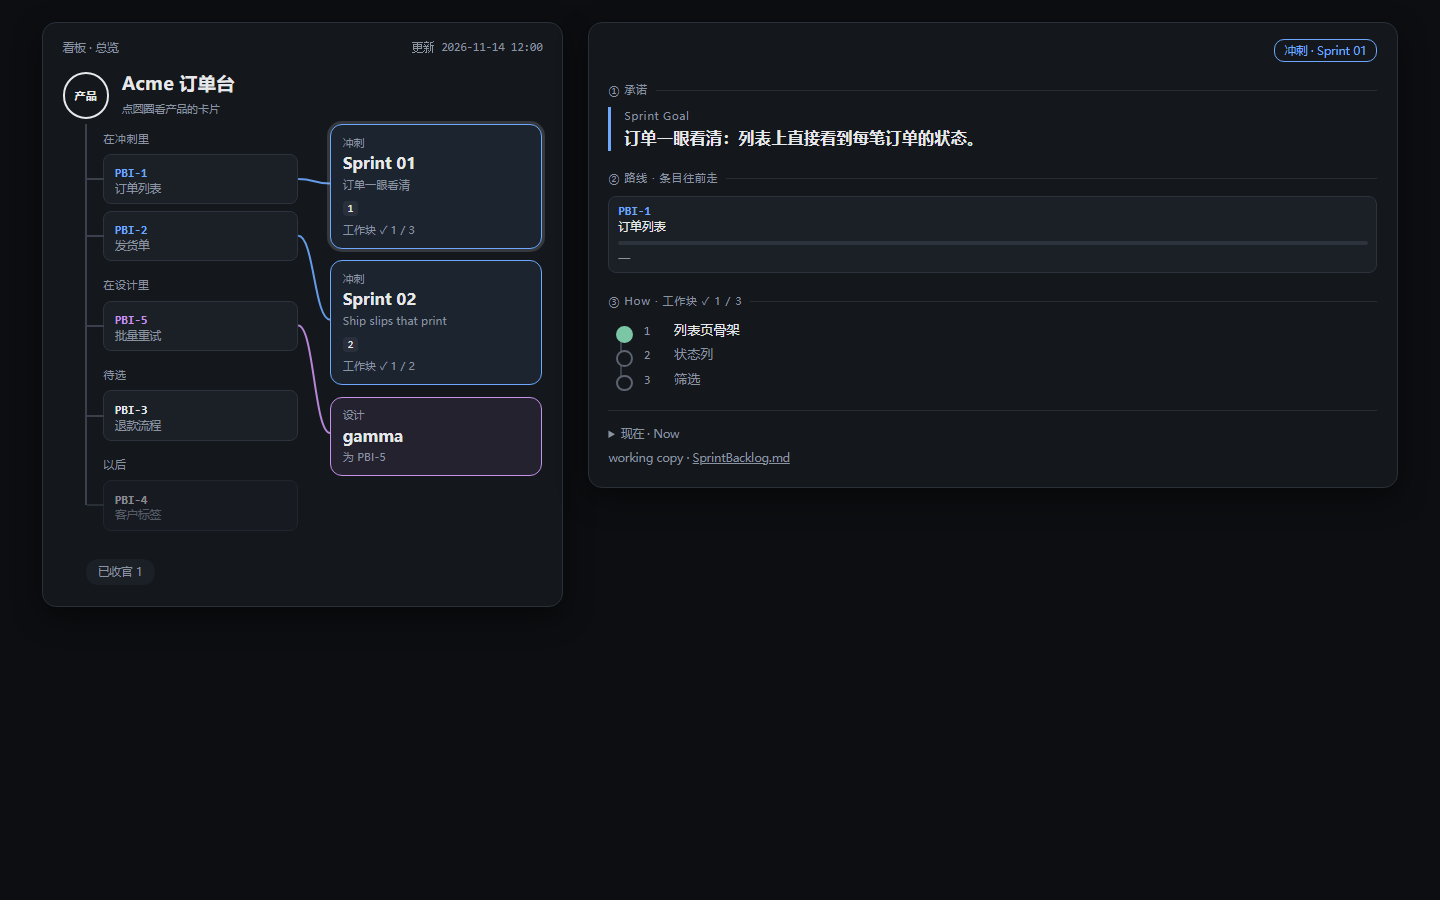
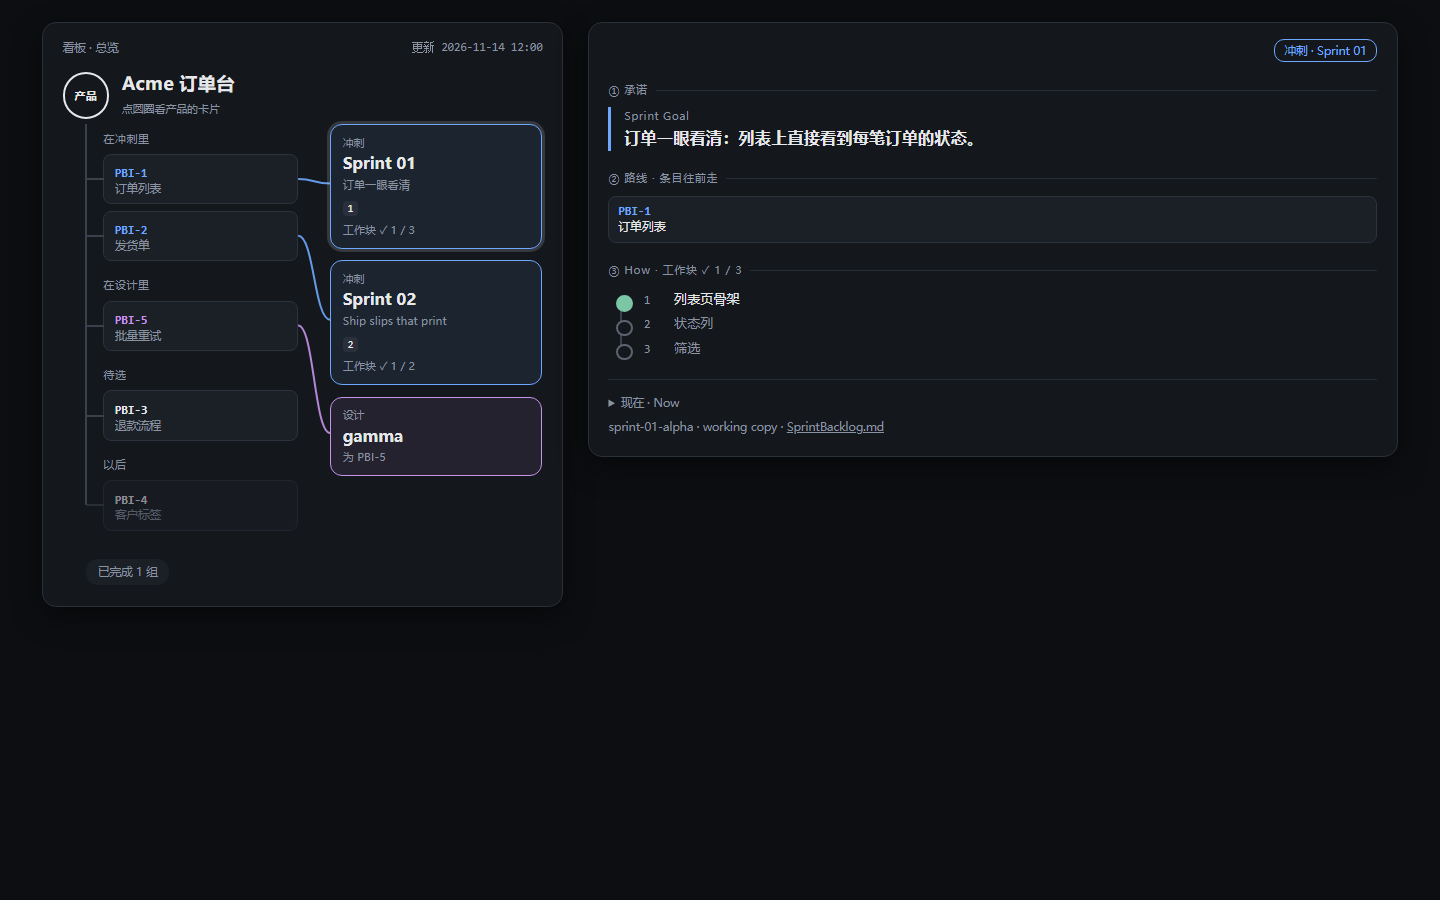
fix(Sprint 20): 块 9 按 Master 审阅改四处——「已完成 N 组」、条目照冲刺和设计自己的顺序排、认不出工作块时不画进度条、设计节点取设计目标的短名
- 完成数的标签：产品日志 3.2 的行不全是冲刺，页面写「已完成 N 组」，N 是表的行数
- 在冲刺里、在设计里的条目照所在冲刺（日志 2.1）、设计的顺序排，总览和路线一致
- 一个条目没有任何工作块写着它的编号时，路线只列条目，不画进度条
- 设计节点取设计目标冒号前的短名；冲刺、设计的文件夹名挪到卡片的来源那一行
- 样本数据、截图重做；Codex 包同步；块 9 标 ✓（Master 审过）

Changed region(s): [[0.4062, 0.28, 0.625, 0.5289], [0.0625, 0.6222, 0.0938, 0.6533]]

diff --git a/codex/plugins/ideo-scrum/skills/scrum-kernel/conventions/scrum-board-template.html b/codex/plugins/ideo-scrum/skills/scrum-kernel/conventions/scrum-board-template.html
@@ -189,7 +189,8 @@
   var STR = {
     zh: {
       board: '看板', overview: '总览', back: '← 总览', updated: '更新', circle: '产品', hint: '点圆圈看产品的卡片',
-      sprint: '冲刺', design: '设计', forItem: '为', blocks: '工作块', closed: '已收官', here: '在这',
+      sprint: '冲刺', design: '设计', forItem: '为', blocks: '工作块', here: '在这',
+      closed: function (n) { return '已完成 ' + n + ' 组'; },
       grp: { sprint: '在冲刺里', design: '在设计里', next: '待选', later: '以后' },
       l1: '① 承诺', designGoal: '设计目标',
       productL2: '② 路线 · 架构（主干）', productL3: function (n) { return '③ 条目 · 没做完的 ' + n + ' 条'; },
@@ -201,7 +202,8 @@
     },
     en: {
       board: 'Board', overview: 'Overview', back: '← Overview', updated: 'Updated', circle: 'Product', hint: 'Open the circle for the product card',
-      sprint: 'Sprint', design: 'Design', forItem: 'For', blocks: 'Work items', closed: 'Closed', here: 'here',
+      sprint: 'Sprint', design: 'Design', forItem: 'For', blocks: 'Work items', here: 'here',
+      closed: function (n) { return 'Done · ' + n + ' groups'; },
       grp: { sprint: 'In a Sprint', design: 'In a design', next: 'Up next', later: 'Later' },
       l1: '① Commitments', designGoal: 'Design goal',
       productL2: '② Route · architecture (backbone)', productL3: function (n) { return '③ Items · ' + n + ' not done'; },
@@ -247,7 +249,7 @@
   function numOf(id) { var m = /(\d+)\s*$/.exec(String(id)); return m ? m[1] : String(id); }
   function shortOf(t) { t = String(t || ''); var s = t.split(/——| — |：|: /)[0]; return s || t; }
   function sprintName(s) { var m = /^sprint-(\d+)/i.exec(String(s.id)); return m ? 'Sprint ' + m[1] : String(s.id); }
-  function designName(d) { return String(d.id).replace(/^design-/, ''); }
+  function designName(d) { return goalShort(d) || String(d.id).replace(/^design-/, ''); }
   function goalShort(s) {
     var g = String(s.goal || ''), i = g.search(/：|: /);
     return i > 0 && i <= 24 ? g.slice(0, i) : '';
@@ -280,6 +282,22 @@
   sprints.forEach(function (s) { arr(s.items).forEach(function (id) { links.push({ item: id, node: s.id, cls: 's' }); }); });
   designs.forEach(function (d) { arr(d['for']).forEach(function (id) { links.push({ item: id, node: d.id, cls: 'd' }); }); });
 
+  /* Items that sit in a Sprint or a design are listed in that Sprint's or design's own order; the rest keep the product log's. */
+  var rank = {};
+  sprints.forEach(function (s, si) { arr(s.items).forEach(function (id, i) { if (!(id in rank)) { rank[id] = si * 1000 + i; } }); });
+  designs.forEach(function (d, di) { arr(d['for']).forEach(function (id, i) { if (!(id in rank)) { rank[id] = 100000 + di * 1000 + i; } }); });
+  items.forEach(function (it, i) { it._o = i; });
+  function inGroup(g) {
+    var list = items.filter(function (it) { return it._g === g; });
+    if (g === 'sprint' || g === 'design') {
+      list.sort(function (a, b) {
+        var ra = a.id in rank ? rank[a.id] : 1e9, rb = b.id in rank ? rank[b.id] : 1e9;
+        return (ra - rb) || (a._o - b._o);
+      });
+    }
+    return list;
+  }
+
   /* ---- overview ---- */
   var itemEl = {}, nodeEl = {};
   var circle = h('a', 'prod-circle', S.circle);
@@ -295,7 +313,7 @@
     add(ov, add(h('div', 'ov-head'), circle, add(h('div', 'prod-name'), h('b', '', P.name || ''), h('span', '', S.hint))));
     var any = false;
     GROUPS.forEach(function (g) {
-      var list = items.filter(function (it) { return it._g === g; });
+      var list = inGroup(g);
       if (!list.length) { return; }
       any = true;
       itemsCol.appendChild(h('div', 'grp-label', S.grp[g]));
@@ -335,7 +353,7 @@
 
     add(flow, wires, trunk, itemsCol, nodesCol);
     ov.appendChild(flow);
-    if (P.closed) { ov.appendChild(h('div', 'closed', S.closed + ' ' + P.closed)); }
+    if (P.closed) { ov.appendChild(h('div', 'closed', S.closed(P.closed))); }
   }
 
   function svgPath(d, cls, itemId) {
@@ -443,9 +461,9 @@
   function ideoLines(list) {
     return arr(list).map(function (x) { return h('p', '', S.ideo + ' · ' + (x.id || '') + (x.now ? ': ' + x.now : '')); });
   }
-  function sourceLine(src, path, file) {
+  function sourceLine(src, path, file, folder) {
     var p = h('p');
-    p.appendChild(document.createTextNode(src || ''));
+    p.appendChild(document.createTextNode((folder ? folder + ' · ' : '') + (src || '')));
     if (path && /^working copy/i.test(src || '')) {
       p.appendChild(document.createTextNode(' · '));
       var a = h('a', '', file);
@@ -477,7 +495,7 @@
     if (arr(P.map).length) { l2.appendChild(ul); c.appendChild(l2); }
     var l3 = layer(S.productL3(notDone));
     GROUPS.forEach(function (g) {
-      var list = items.filter(function (it) { return it._g === g; });
+      var list = inGroup(g);
       if (!list.length) { return; }
       l3.appendChild(h('div', 'grp', S.grp[g]));
       list.forEach(function (it) { l3.appendChild(itemRow(it)); });
@@ -497,7 +515,9 @@
       fill.style.width = (p.t ? Math.round(100 * p.d / p.t) : 0) + '%';
       bar2.appendChild(fill);
       if (i) { row.appendChild(h('span', 'parr', '→')); }
-      add(pn, h('b', '', it.id), h('span', 't', shortOf(it.title)), bar2, h('small', '', p.t ? S.perItem(p.d, p.t) : '—'));
+      /* No work item names this item: the route lists it without a bar. */
+      if (p.t) { add(pn, h('b', '', it.id), h('span', 't', shortOf(it.title)), bar2, h('small', '', S.perItem(p.d, p.t))); }
+      else { add(pn, h('b', '', it.id), h('span', 't', shortOf(it.title))); }
       pn.title = it.title || '';
       row.appendChild(pn);
     });
@@ -509,7 +529,7 @@
       ol.appendChild(li);
     });
     if (arr(s.blocks).length) { l3.appendChild(ol); c.appendChild(l3); }
-    foot(c, [nowBlock(s.now)].concat(ideoLines(s.ideo), [sourceLine(s.source, s.id + '/SprintBacklog.md', 'SprintBacklog.md')]));
+    foot(c, [nowBlock(s.now)].concat(ideoLines(s.ideo), [sourceLine(s.source, s.id + '/SprintBacklog.md', 'SprintBacklog.md', s.id)]));
   }
 
   function designCard(d) {
@@ -522,7 +542,7 @@
     var l3 = layer(S.designL3), st = h('div', 'story');
     arr(d.story).forEach(function (x) { st.appendChild(add(h('div'), h('b', '', x.title), document.createTextNode(x.text || ''))); });
     if (arr(d.story).length) { l3.appendChild(st); c.appendChild(l3); }
-    foot(c, [nowBlock(d.now)].concat(ideoLines(d.ideo), [sourceLine(d.source, d.id + '/DesignBacklog.md', 'DesignBacklog.md')]));
+    foot(c, [nowBlock(d.now)].concat(ideoLines(d.ideo), [sourceLine(d.source, d.id + '/DesignBacklog.md', 'DesignBacklog.md', d.id)]));
   }
 
   /* ---- showing a card ---- */

diff --git a/plugins/ideo-scrum/skills/scrum-kernel/conventions/scrum-board-template.html b/plugins/ideo-scrum/skills/scrum-kernel/conventions/scrum-board-template.html
@@ -189,7 +189,8 @@
   var STR = {
     zh: {
       board: '看板', overview: '总览', back: '← 总览', updated: '更新', circle: '产品', hint: '点圆圈看产品的卡片',
-      sprint: '冲刺', design: '设计', forItem: '为', blocks: '工作块', closed: '已收官', here: '在这',
+      sprint: '冲刺', design: '设计', forItem: '为', blocks: '工作块', here: '在这',
+      closed: function (n) { return '已完成 ' + n + ' 组'; },
       grp: { sprint: '在冲刺里', design: '在设计里', next: '待选', later: '以后' },
       l1: '① 承诺', designGoal: '设计目标',
       productL2: '② 路线 · 架构（主干）', productL3: function (n) { return '③ 条目 · 没做完的 ' + n + ' 条'; },
@@ -201,7 +202,8 @@
     },
     en: {
       board: 'Board', overview: 'Overview', back: '← Overview', updated: 'Updated', circle: 'Product', hint: 'Open the circle for the product card',
-      sprint: 'Sprint', design: 'Design', forItem: 'For', blocks: 'Work items', closed: 'Closed', here: 'here',
+      sprint: 'Sprint', design: 'Design', forItem: 'For', blocks: 'Work items', here: 'here',
+      closed: function (n) { return 'Done · ' + n + ' groups'; },
       grp: { sprint: 'In a Sprint', design: 'In a design', next: 'Up next', later: 'Later' },
       l1: '① Commitments', designGoal: 'Design goal',
       productL2: '② Route · architecture (backbone)', productL3: function (n) { return '③ Items · ' + n + ' not done'; },
@@ -247,7 +249,7 @@
   function numOf(id) { var m = /(\d+)\s*$/.exec(String(id)); return m ? m[1] : String(id); }
   function shortOf(t) { t = String(t || ''); var s = t.split(/——| — |：|: /)[0]; return s || t; }
   function sprintName(s) { var m = /^sprint-(\d+)/i.exec(String(s.id)); return m ? 'Sprint ' + m[1] : String(s.id); }
-  function designName(d) { return String(d.id).replace(/^design-/, ''); }
+  function designName(d) { return goalShort(d) || String(d.id).replace(/^design-/, ''); }
   function goalShort(s) {
     var g = String(s.goal || ''), i = g.search(/：|: /);
     return i > 0 && i <= 24 ? g.slice(0, i) : '';
@@ -280,6 +282,22 @@
   sprints.forEach(function (s) { arr(s.items).forEach(function (id) { links.push({ item: id, node: s.id, cls: 's' }); }); });
   designs.forEach(function (d) { arr(d['for']).forEach(function (id) { links.push({ item: id, node: d.id, cls: 'd' }); }); });
 
+  /* Items that sit in a Sprint or a design are listed in that Sprint's or design's own order; the rest keep the product log's. */
+  var rank = {};
+  sprints.forEach(function (s, si) { arr(s.items).forEach(function (id, i) { if (!(id in rank)) { rank[id] = si * 1000 + i; } }); });
+  designs.forEach(function (d, di) { arr(d['for']).forEach(function (id, i) { if (!(id in rank)) { rank[id] = 100000 + di * 1000 + i; } }); });
+  items.forEach(function (it, i) { it._o = i; });
+  function inGroup(g) {
+    var list = items.filter(function (it) { return it._g === g; });
+    if (g === 'sprint' || g === 'design') {
+      list.sort(function (a, b) {
+        var ra = a.id in rank ? rank[a.id] : 1e9, rb = b.id in rank ? rank[b.id] : 1e9;
+        return (ra - rb) || (a._o - b._o);
+      });
+    }
+    return list;
+  }
+
   /* ---- overview ---- */
   var itemEl = {}, nodeEl = {};
   var circle = h('a', 'prod-circle', S.circle);
@@ -295,7 +313,7 @@
     add(ov, add(h('div', 'ov-head'), circle, add(h('div', 'prod-name'), h('b', '', P.name || ''), h('span', '', S.hint))));
     var any = false;
     GROUPS.forEach(function (g) {
-      var list = items.filter(function (it) { return it._g === g; });
+      var list = inGroup(g);
       if (!list.length) { return; }
       any = true;
       itemsCol.appendChild(h('div', 'grp-label', S.grp[g]));
@@ -335,7 +353,7 @@
 
     add(flow, wires, trunk, itemsCol, nodesCol);
     ov.appendChild(flow);
-    if (P.closed) { ov.appendChild(h('div', 'closed', S.closed + ' ' + P.closed)); }
+    if (P.closed) { ov.appendChild(h('div', 'closed', S.closed(P.closed))); }
   }
 
   function svgPath(d, cls, itemId) {
@@ -443,9 +461,9 @@
   function ideoLines(list) {
     return arr(list).map(function (x) { return h('p', '', S.ideo + ' · ' + (x.id || '') + (x.now ? ': ' + x.now : '')); });
   }
-  function sourceLine(src, path, file) {
+  function sourceLine(src, path, file, folder) {
     var p = h('p');
-    p.appendChild(document.createTextNode(src || ''));
+    p.appendChild(document.createTextNode((folder ? folder + ' · ' : '') + (src || '')));
     if (path && /^working copy/i.test(src || '')) {
       p.appendChild(document.createTextNode(' · '));
       var a = h('a', '', file);
@@ -477,7 +495,7 @@
     if (arr(P.map).length) { l2.appendChild(ul); c.appendChild(l2); }
     var l3 = layer(S.productL3(notDone));
     GROUPS.forEach(function (g) {
-      var list = items.filter(function (it) { return it._g === g; });
+      var list = inGroup(g);
       if (!list.length) { return; }
       l3.appendChild(h('div', 'grp', S.grp[g]));
       list.forEach(function (it) { l3.appendChild(itemRow(it)); });
@@ -497,7 +515,9 @@
       fill.style.width = (p.t ? Math.round(100 * p.d / p.t) : 0) + '%';
       bar2.appendChild(fill);
       if (i) { row.appendChild(h('span', 'parr', '→')); }
-      add(pn, h('b', '', it.id), h('span', 't', shortOf(it.title)), bar2, h('small', '', p.t ? S.perItem(p.d, p.t) : '—'));
+      /* No work item names this item: the route lists it without a bar. */
+      if (p.t) { add(pn, h('b', '', it.id), h('span', 't', shortOf(it.title)), bar2, h('small', '', S.perItem(p.d, p.t))); }
+      else { add(pn, h('b', '', it.id), h('span', 't', shortOf(it.title))); }
       pn.title = it.title || '';
       row.appendChild(pn);
     });
@@ -509,7 +529,7 @@
       ol.appendChild(li);
     });
     if (arr(s.blocks).length) { l3.appendChild(ol); c.appendChild(l3); }
-    foot(c, [nowBlock(s.now)].concat(ideoLines(s.ideo), [sourceLine(s.source, s.id + '/SprintBacklog.md', 'SprintBacklog.md')]));
+    foot(c, [nowBlock(s.now)].concat(ideoLines(s.ideo), [sourceLine(s.source, s.id + '/SprintBacklog.md', 'SprintBacklog.md', s.id)]));
   }
 
   function designCard(d) {
@@ -522,7 +542,7 @@
     var l3 = layer(S.designL3), st = h('div', 'story');
     arr(d.story).forEach(function (x) { st.appendChild(add(h('div'), h('b', '', x.title), document.createTextNode(x.text || ''))); });
     if (arr(d.story).length) { l3.appendChild(st); c.appendChild(l3); }
-    foot(c, [nowBlock(d.now)].concat(ideoLines(d.ideo), [sourceLine(d.source, d.id + '/DesignBacklog.md', 'DesignBacklog.md')]));
+    foot(c, [nowBlock(d.now)].concat(ideoLines(d.ideo), [sourceLine(d.source, d.id + '/DesignBacklog.md', 'DesignBacklog.md', d.id)]));
   }
 
   /* ---- showing a card ---- */
